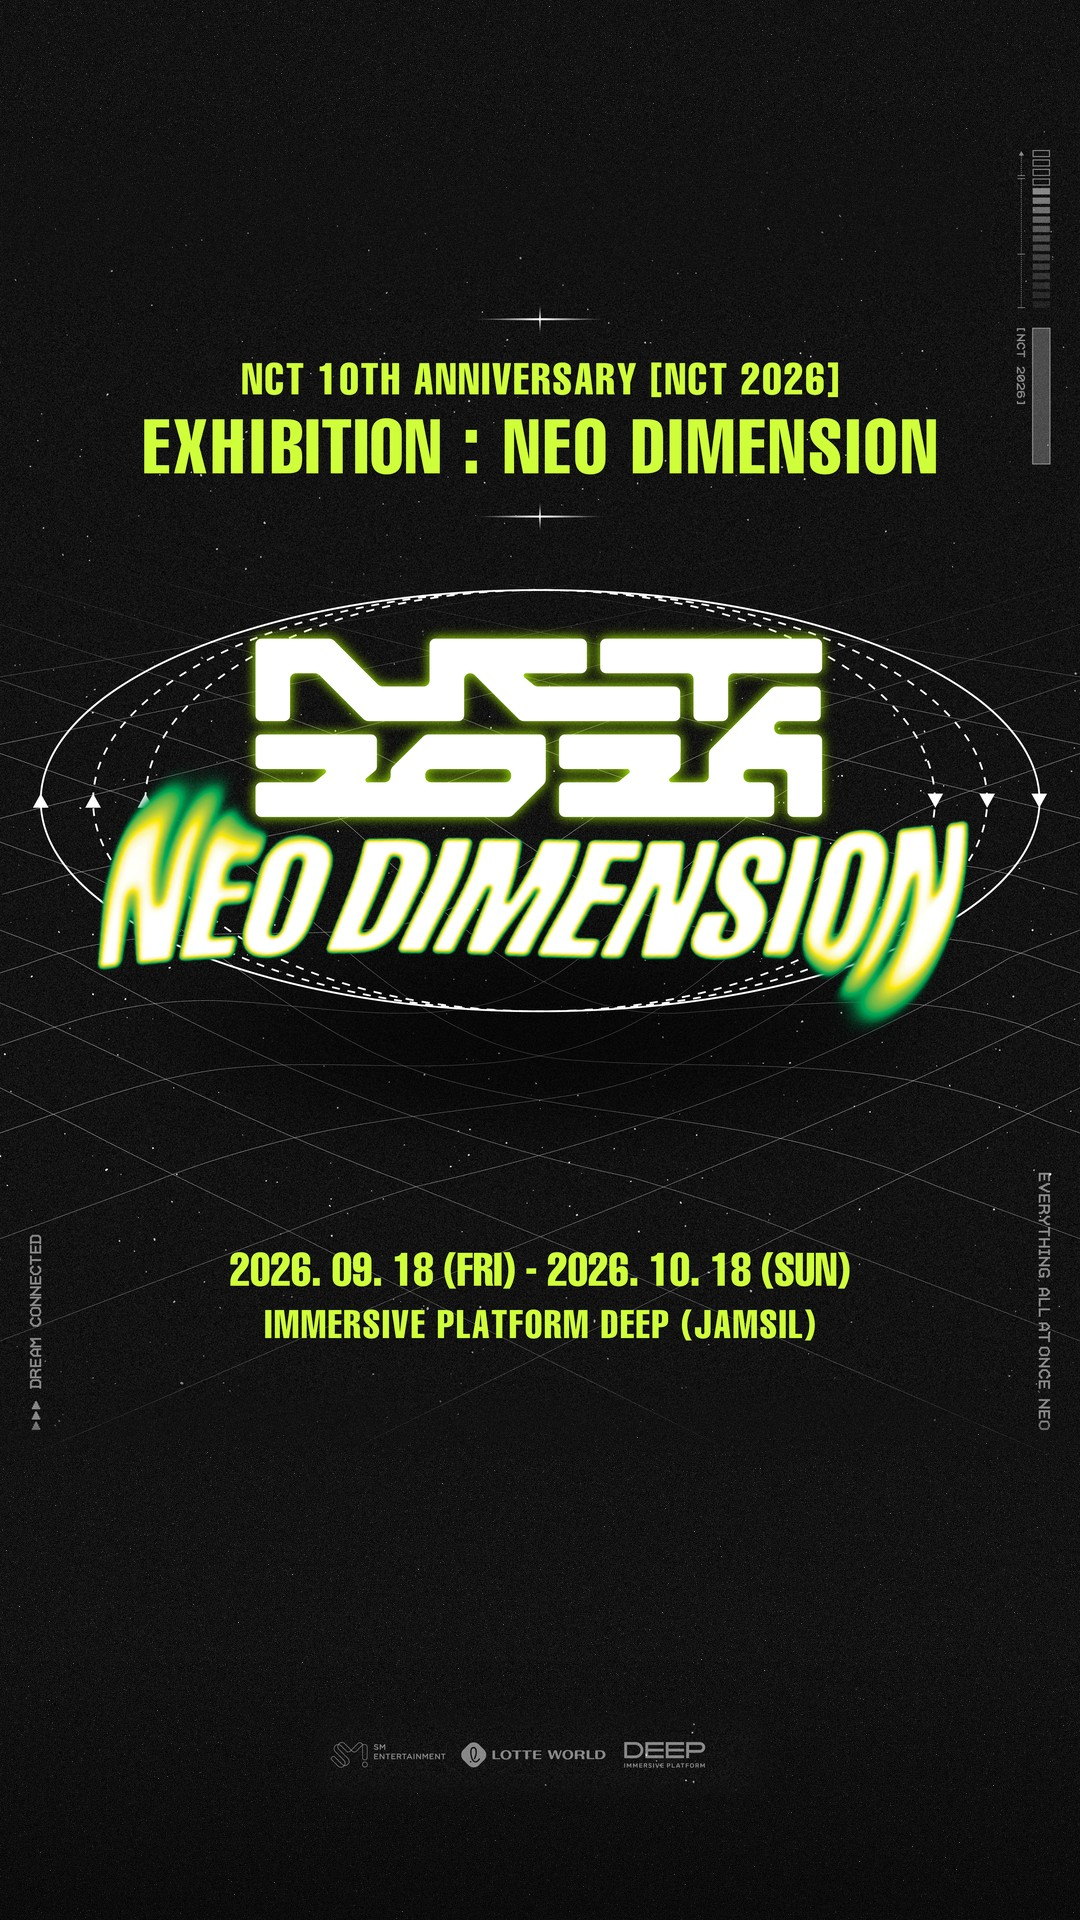
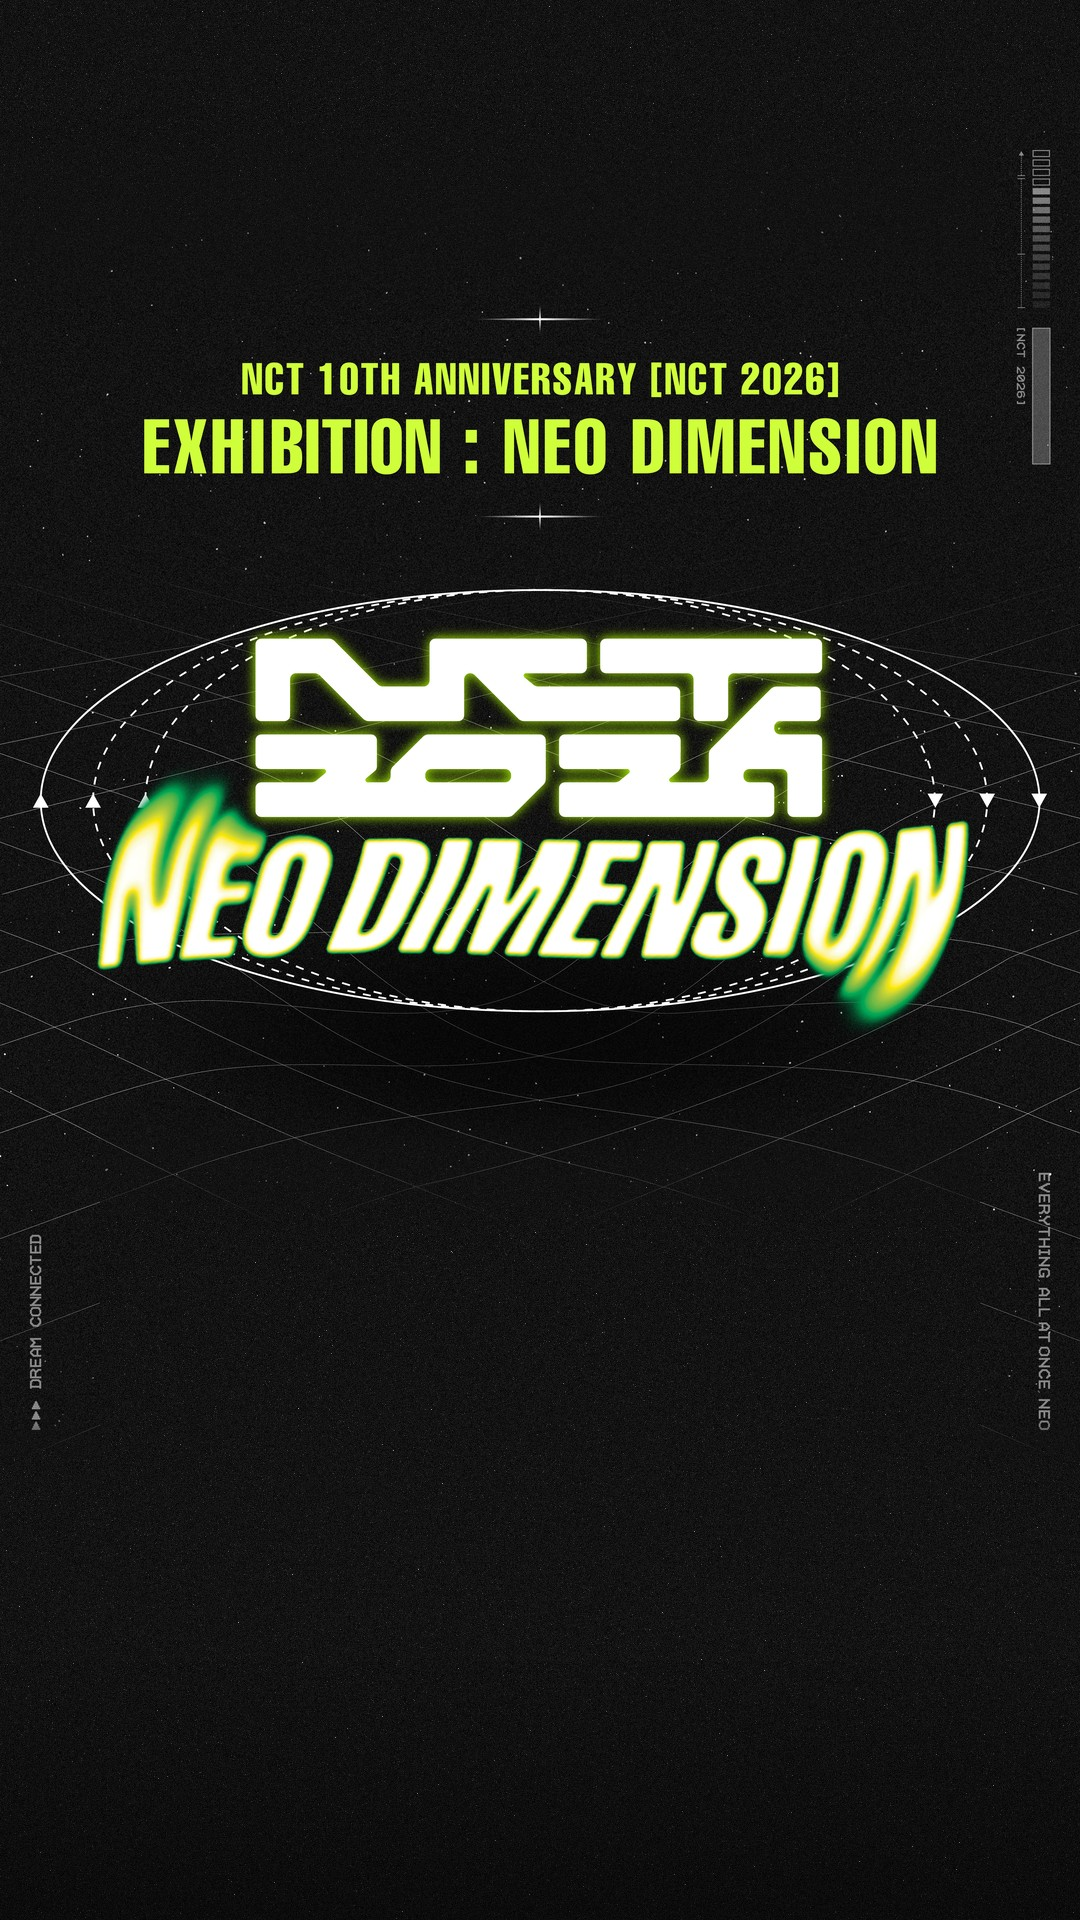
어트랙트 풀블리드 포스터 복원 — 날짜·파트너 로고만 제거

diff --git a/index.html b/index.html
@@ -72,28 +72,14 @@ body.lite #grainOv{opacity:.09;mix-blend-mode:multiply;filter:invert(1)}
 .fadeup{animation:fadeUp .45s ease both}
 @keyframes fadeUp{from{opacity:0;transform:translateY(16px)}to{opacity:1;transform:none}}
 
-/* ---------- ATTRACT — 배경·그리드만 포스터에서, 콘텐츠는 키오스크 고유 컴포지션 ---------- */
+/* ---------- ATTRACT — 0831 최종 포스터 풀블리드 (날짜·파트너 로고 제거판) ---------- */
 #attract .abg{position:absolute;inset:0;width:1080px;height:1920px;pointer-events:none}
 #attract .hero{position:absolute;inset:0;pointer-events:none}
-#attract .hero .hrip,#attract .orb{position:absolute;inset:0;width:100%;height:100%}
+#attract .hero .hrip{position:absolute;inset:0;width:100%;height:100%}
 #attract .kvsat{position:absolute;width:12px;height:12px;border-radius:50%;background:var(--lime);
-  box-shadow:0 0 14px rgba(207,255,59,.9);offset-path:ellipse(500px 200px at 540px 860px);animation:satMove 18s linear infinite}
-#attract .kvsat.s2{width:8px;height:8px;offset-path:ellipse(552px 236px at 540px 860px);animation-duration:26s;animation-delay:-10s;opacity:.65}
+  box-shadow:0 0 14px rgba(207,255,59,.9);offset-path:ellipse(523px 209px at 540px 811px);animation:satMove 18s linear infinite}
+#attract .kvsat.s2{width:8px;height:8px;offset-path:ellipse(575px 245px at 540px 811px);animation-duration:26s;animation-delay:-10s;opacity:.65}
 @keyframes satMove{from{offset-distance:0%}to{offset-distance:100%}}
-#attract .akick2{position:absolute;left:64px;top:150px;display:flex;gap:20px;align-items:center;color:var(--lime);
-  font-family:'Barlow Semi Condensed';font-weight:600;font-size:26px;line-height:1.3;letter-spacing:.08em}
-#attract .akick2 svg{width:62px;height:62px;flex:none}
-#attract .astat{position:absolute;right:64px;top:162px;color:var(--lime);font-size:24px;letter-spacing:.2em;opacity:.92}
-#attract .ttlwrap{position:absolute;left:0;right:0;top:678px;text-align:center}
-#attract .tkick{color:var(--lime);font-size:27px;letter-spacing:.3em;opacity:.92}
-#attract .ttl{font-family:'Barlow Semi Condensed';font-weight:700;font-size:220px;line-height:1.05;color:#fff;letter-spacing:.02em;
-  text-shadow:0 0 28px rgba(255,255,255,.4),0 0 80px rgba(207,255,59,.30);animation:ttlGlow 3.6s ease-in-out infinite}
-@keyframes ttlGlow{0%,100%{text-shadow:0 0 24px rgba(255,255,255,.32),0 0 60px rgba(207,255,59,.22)}
-  50%{text-shadow:0 0 34px rgba(255,255,255,.5),0 0 100px rgba(207,255,59,.42)}}
-#attract .tsub{margin-top:10px;color:var(--lime);font-size:31px;letter-spacing:.34em}
-#attract .afoot{position:absolute;left:0;right:0;top:1706px;display:flex;justify-content:center;align-items:center;gap:24px;
-  color:var(--lime);font-size:24px;letter-spacing:.14em}
-#attract .afoot svg{width:44px;height:44px}
 #attract .touch .bar{animation:barGlow 2.6s ease-in-out infinite}
 @keyframes barGlow{0%,100%{box-shadow:0 0 26px rgba(207,255,59,.25)}50%{box-shadow:0 0 70px rgba(207,255,59,.65)}}
 #attract .touch{position:absolute;left:84px;right:84px;top:1478px;text-align:center}
@@ -300,60 +286,27 @@ body.lite #grainOv{opacity:.09;mix-blend-mode:multiply;filter:invert(1)}
 
   <!-- ATTRACT -->
   <div class="screen on" id="attract">
-    <!-- 배경: 그레인+그리드만 (로고·날짜 미포함) -->
-    <img class="abg" src="assets/kv_attract_bg2.jpg" alt="">
-    <!-- 좌상 HUD -->
-    <div class="akick2">
-      <svg viewBox="0 0 52 52" fill="none" stroke="#CFFF3B" stroke-width="1.6">
-        <circle cx="26" cy="26" r="24"/><circle cx="26" cy="26" r="18"/><circle cx="26" cy="26" r="12"/>
-        <circle cx="26" cy="26" r="6.5"/><circle cx="26" cy="26" r="2.4" fill="#CFFF3B"/>
-      </svg>
-      <span>EVERYTHING,<br>ALL AT ONCE, NEO</span>
-    </div>
-    <!-- 우상 상태 HUD -->
-    <div class="astat pix">SIGNAL : AWAITING SYNC <span class="blink">▮</span></div>
+    <!-- 0831 최종 포스터 풀블리드 (날짜·파트너 로고 제거) -->
+    <img class="abg" src="assets/kv_attract_bg.jpg" alt="NCT 2026 NEO DIMENSION">
     <div class="hero">
-      <!-- 오빗: 시안 스타일 정지 링 (실선+점선+화살표) -->
-      <svg class="orb" viewBox="0 0 1080 1920" fill="none">
-        <ellipse cx="540" cy="860" rx="500" ry="200" stroke="#FFFFFF" stroke-width="1.6" opacity=".85"/>
-        <ellipse cx="540" cy="860" rx="430" ry="168" stroke="#FFFFFF" stroke-width="1.3" stroke-dasharray="7 8" opacity=".55"/>
-        <ellipse cx="540" cy="860" rx="556" ry="238" stroke="#CFFF3B" stroke-width="1.3" stroke-dasharray="3 9" opacity=".5"/>
-        <path d="M40 856 l14 12 -14 12 z" fill="#FFFFFF" opacity=".85"/>
-        <path d="M1040 876 l-14 -12 14 -12 z" fill="#FFFFFF" opacity=".85"/>
-        <path d="M534 654 l12 -14 12 14 z" fill="#CFFF3B" opacity=".9"/>
-        <path d="M534 1066 l12 14 12 -14 z" fill="#CFFF3B" opacity=".9"/>
-      </svg>
       <svg class="hrip" viewBox="0 0 1080 1920" fill="none">
-        <ellipse cx="540" cy="860" rx="500" ry="200" stroke="#CFFF3B" stroke-width="1.5">
-          <animate attributeName="rx" values="500;1200" dur="5.4s" repeatCount="indefinite"/>
-          <animate attributeName="ry" values="200;480" dur="5.4s" repeatCount="indefinite"/>
+        <ellipse cx="540" cy="811" rx="523" ry="209" stroke="#CFFF3B" stroke-width="1.5">
+          <animate attributeName="rx" values="523;1200" dur="5.4s" repeatCount="indefinite"/>
+          <animate attributeName="ry" values="209;480" dur="5.4s" repeatCount="indefinite"/>
           <animate attributeName="opacity" values=".4;0" dur="5.4s" repeatCount="indefinite"/>
         </ellipse>
-        <ellipse cx="540" cy="860" rx="500" ry="200" stroke="#CFFF3B" stroke-width="1.5">
-          <animate attributeName="rx" values="500;1200" dur="5.4s" begin="1.8s" repeatCount="indefinite"/>
-          <animate attributeName="ry" values="200;480" dur="5.4s" begin="1.8s" repeatCount="indefinite"/>
+        <ellipse cx="540" cy="811" rx="523" ry="209" stroke="#CFFF3B" stroke-width="1.5">
+          <animate attributeName="rx" values="523;1200" dur="5.4s" begin="1.8s" repeatCount="indefinite"/>
+          <animate attributeName="ry" values="209;480" dur="5.4s" begin="1.8s" repeatCount="indefinite"/>
           <animate attributeName="opacity" values="0;.4;0" keyTimes="0;.06;1" dur="5.4s" begin="1.8s" repeatCount="indefinite"/>
         </ellipse>
-        <ellipse cx="540" cy="860" rx="500" ry="200" stroke="#CFFF3B" stroke-width="1.5">
-          <animate attributeName="rx" values="500;1200" dur="5.4s" begin="3.6s" repeatCount="indefinite"/>
-          <animate attributeName="ry" values="200;480" dur="5.4s" begin="3.6s" repeatCount="indefinite"/>
+        <ellipse cx="540" cy="811" rx="523" ry="209" stroke="#CFFF3B" stroke-width="1.5">
+          <animate attributeName="rx" values="523;1200" dur="5.4s" begin="3.6s" repeatCount="indefinite"/>
+          <animate attributeName="ry" values="209;480" dur="5.4s" begin="3.6s" repeatCount="indefinite"/>
           <animate attributeName="opacity" values="0;.4;0" keyTimes="0;.06;1" dur="5.4s" begin="3.6s" repeatCount="indefinite"/>
         </ellipse>
       </svg>
       <div class="kvsat"></div><div class="kvsat s2"></div>
-      <!-- 센터 타이포 -->
-      <div class="ttlwrap">
-        <div class="tkick pix">[ NCT 2026 · NEO DIMENSION ]</div>
-        <div class="ttl">NEOSK</div>
-        <div class="tsub pix"><span class="chv">▶▶</span> THE LINK · SYNCHRONIZER</div>
-      </div>
-    </div>
-    <!-- 하단 푸터 HUD -->
-    <div class="afoot pix">
-      <svg viewBox="0 0 34 34" fill="none" stroke="#CFFF3B" stroke-width="1.8"><circle cx="17" cy="17" r="15"/><ellipse cx="17" cy="17" rx="7" ry="15"/><line x1="2" y1="17" x2="32" y2="17"/></svg>
-      <span>DREAM CONNECTED</span>
-      <span class="chv blink">▶▶▶▶</span>
-      <span style="opacity:.75">[ NCT 2026 ]</span>
     </div>
     <div class="touch">
       <div class="bar pix" id="touchBar"><span class="chv">▶▶</span> TOUCH TO SYNCHRONIZE</div>
